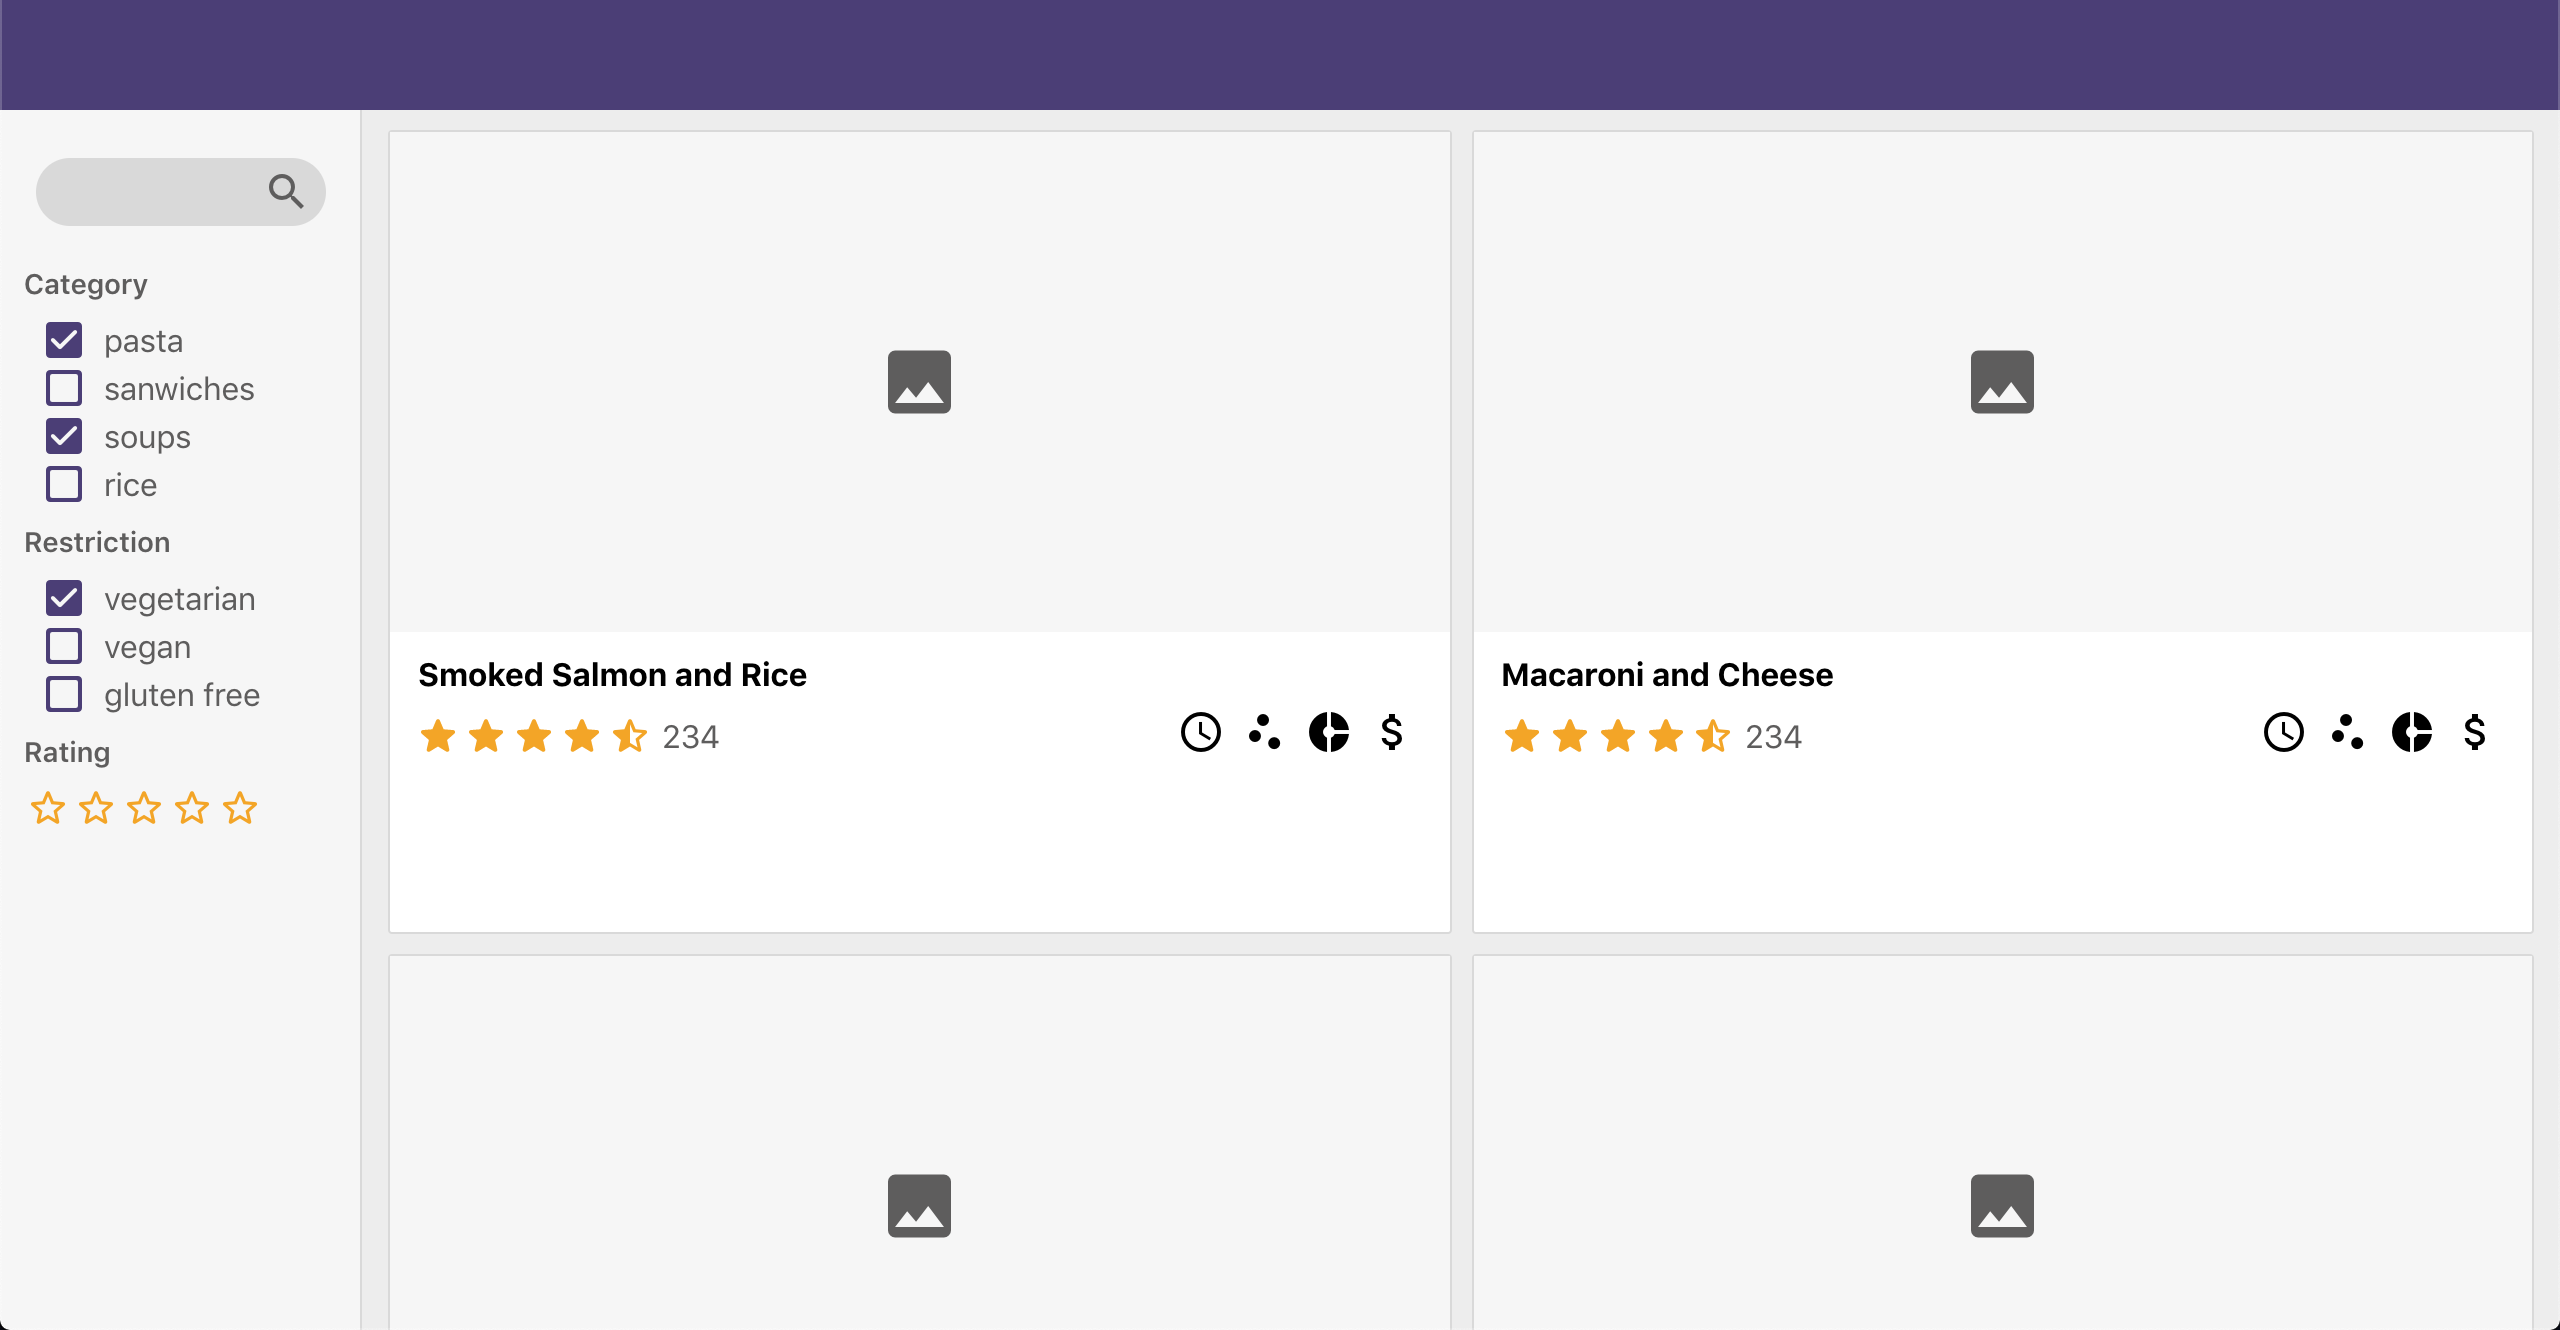
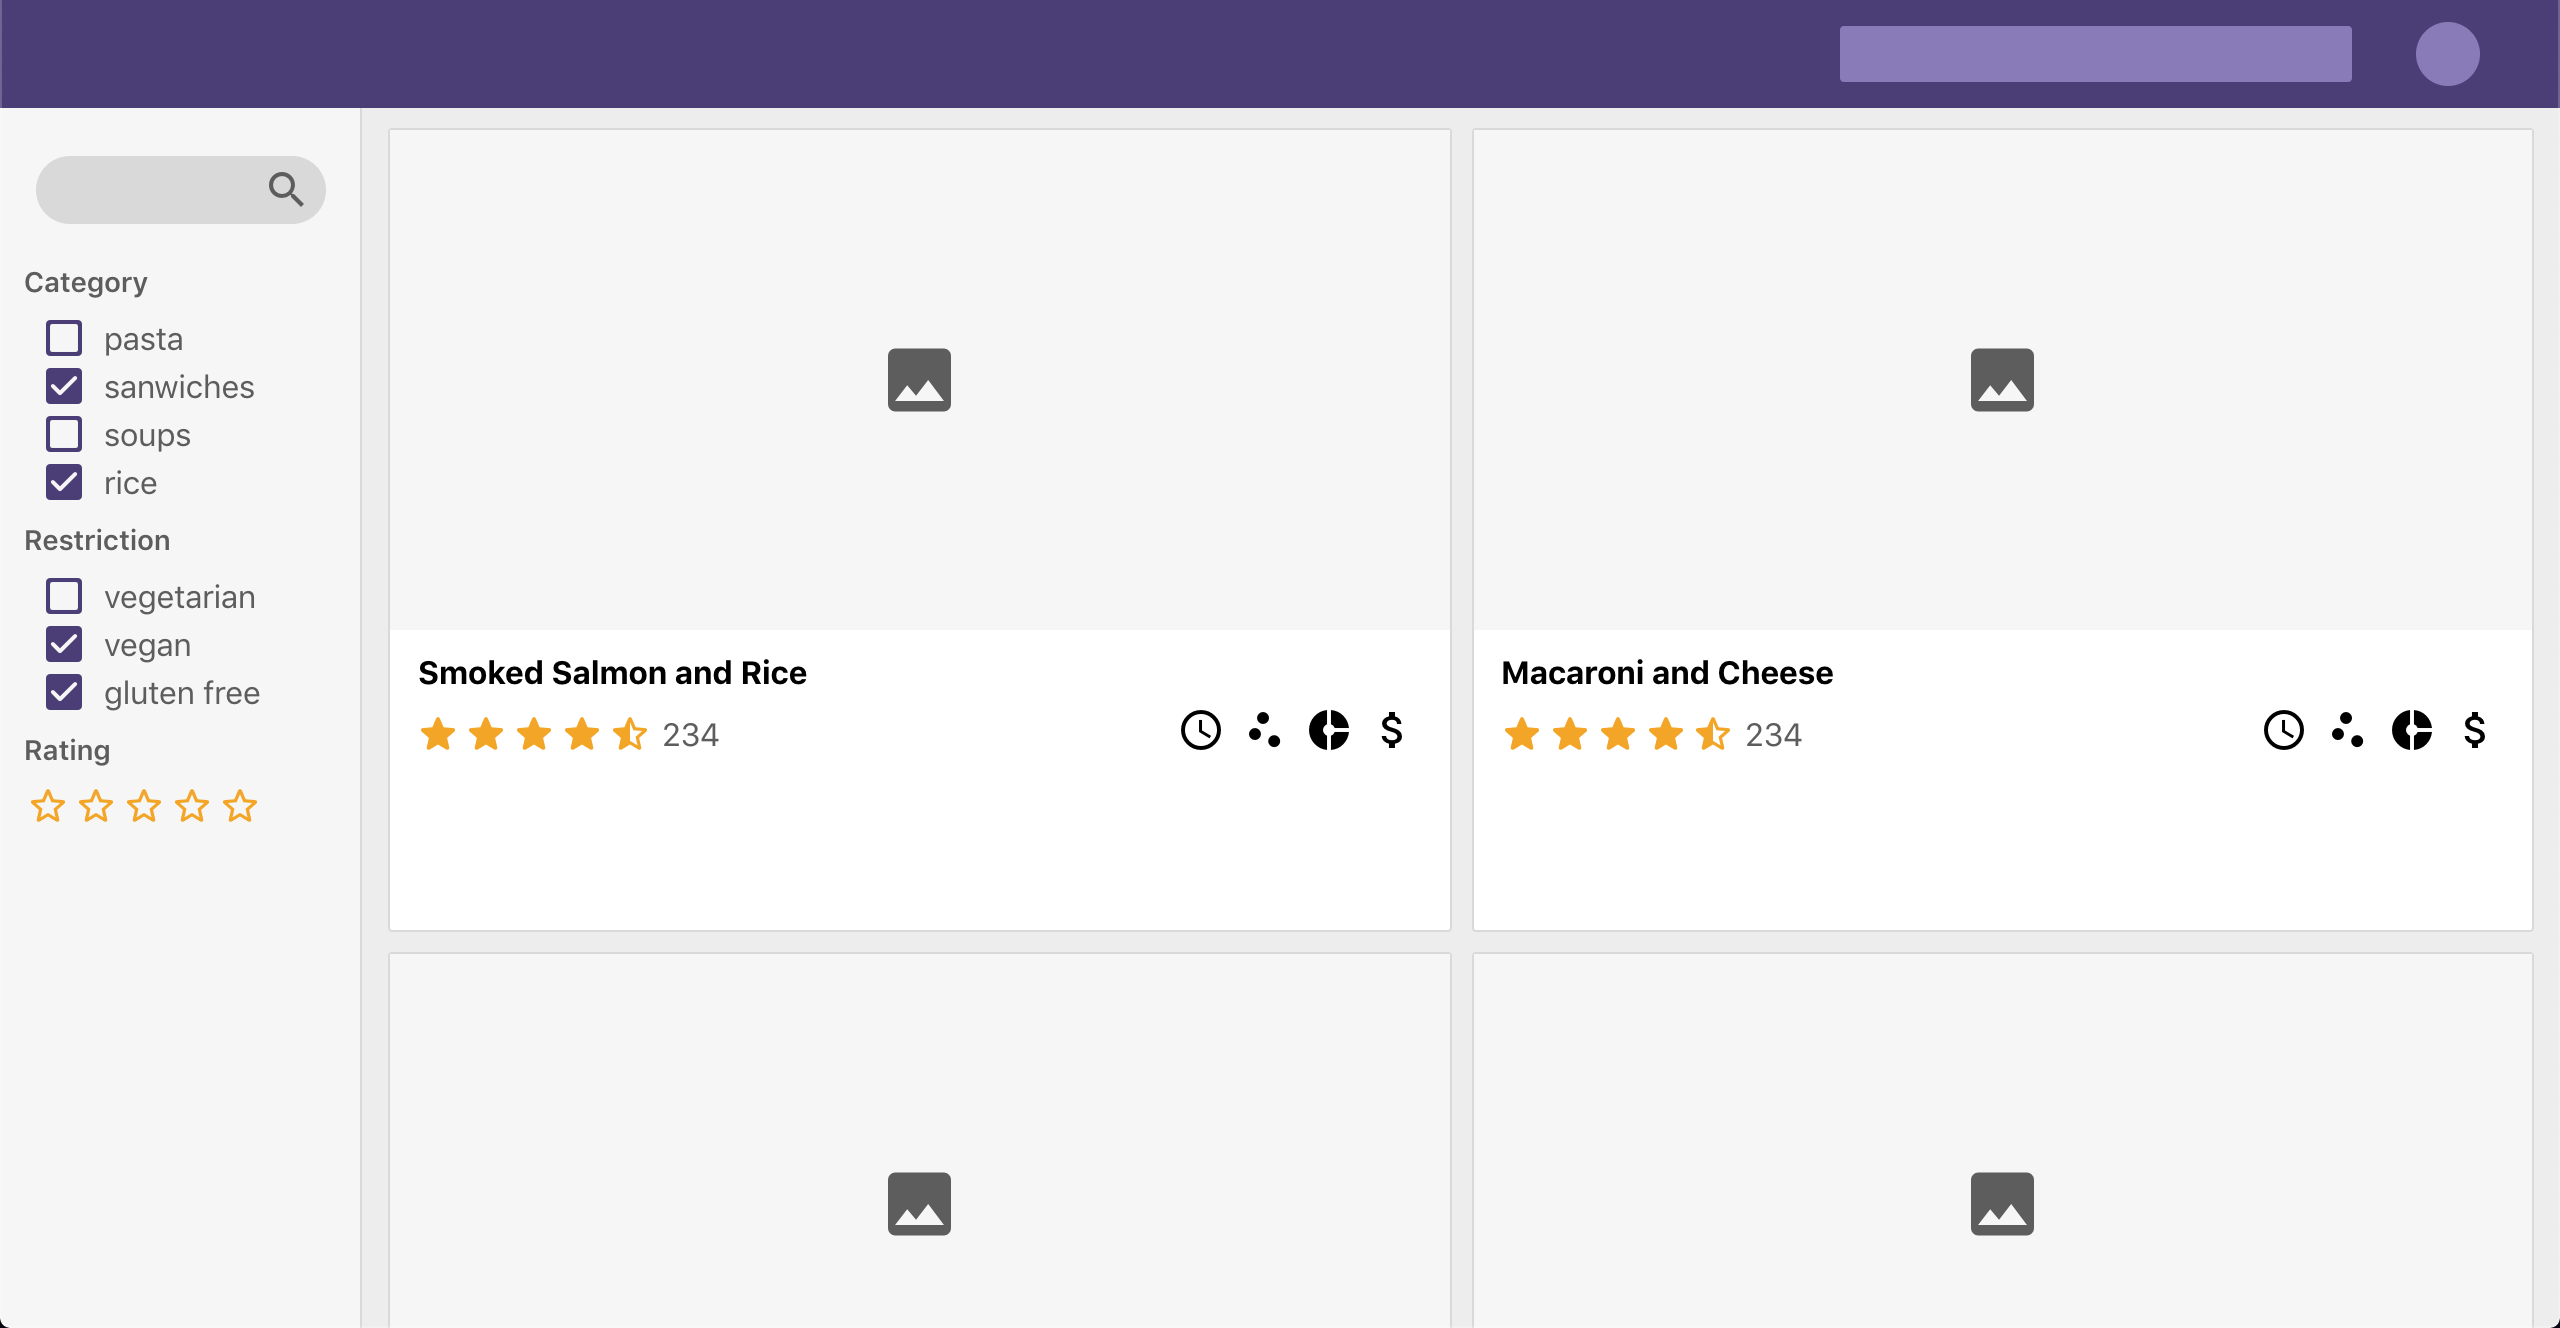
feat(header): add placeholders

diff --git a/web/src/Components/Header/_header.scss b/web/src/Components/Header/_header.scss
@@ -1,11 +1,28 @@
 @import '../../styles/colors';
 
 .header {
-  width: 100%;
   height: 55px;
   min-height: 55px;
   display: flex;
-  justify-content: center;
+  justify-content: flex-end;
+  padding: 0 24px;
   align-items: center;
   background: $primary;
+
+  &--link {
+    height: 28px;
+    width: 256px;
+    background: lighten($primary, 25%);
+    border-radius: 2px;
+    margin: 0 16px;
+  }
+
+  &--icon {
+    background: lighten($primary, 25%);
+    border-radius: 50%;
+    font-size: 32px;
+    width: 32px;
+    height: 32px;
+    margin: 0 16px;
+  }
 }

diff --git a/web/src/Components/Header/header.js b/web/src/Components/Header/header.js
@@ -8,7 +8,8 @@ class Header extends Component {
   render() {
     return (
       <div className="header">
-        <div className="header--primary" />
+        <div className="header--link" />
+        <div className="header--icon" />
       </div>
     );
   }
